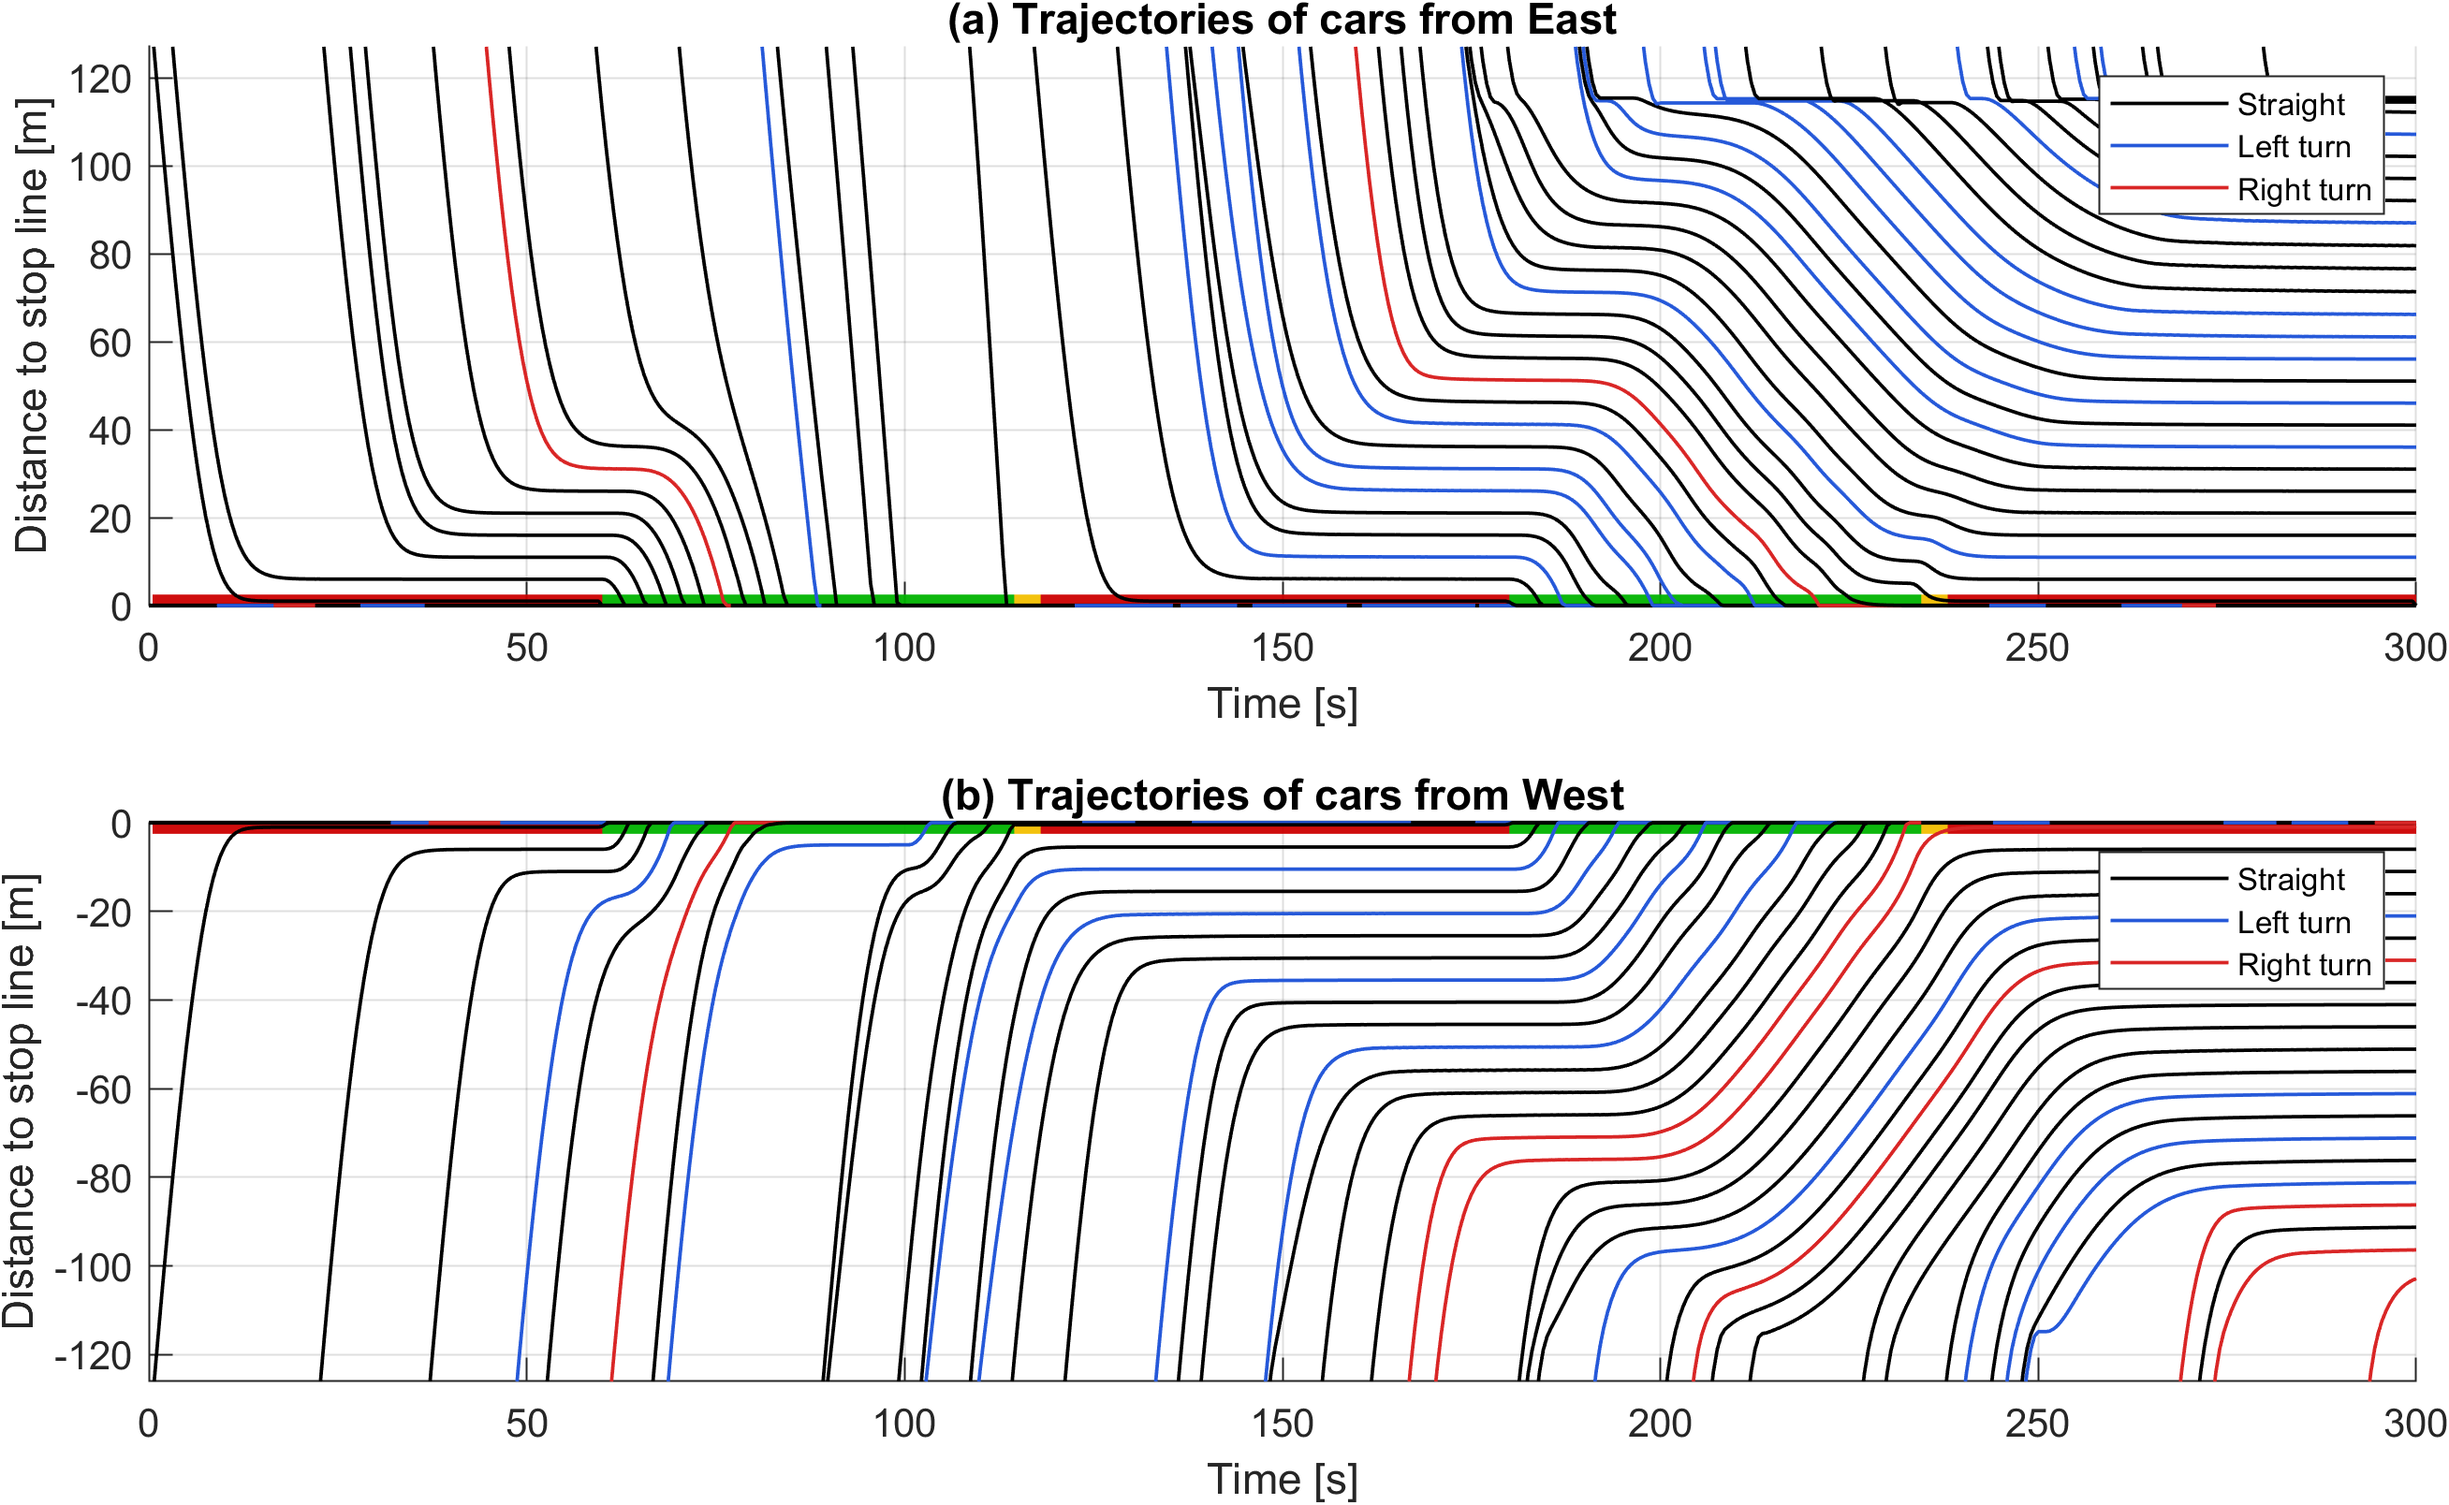
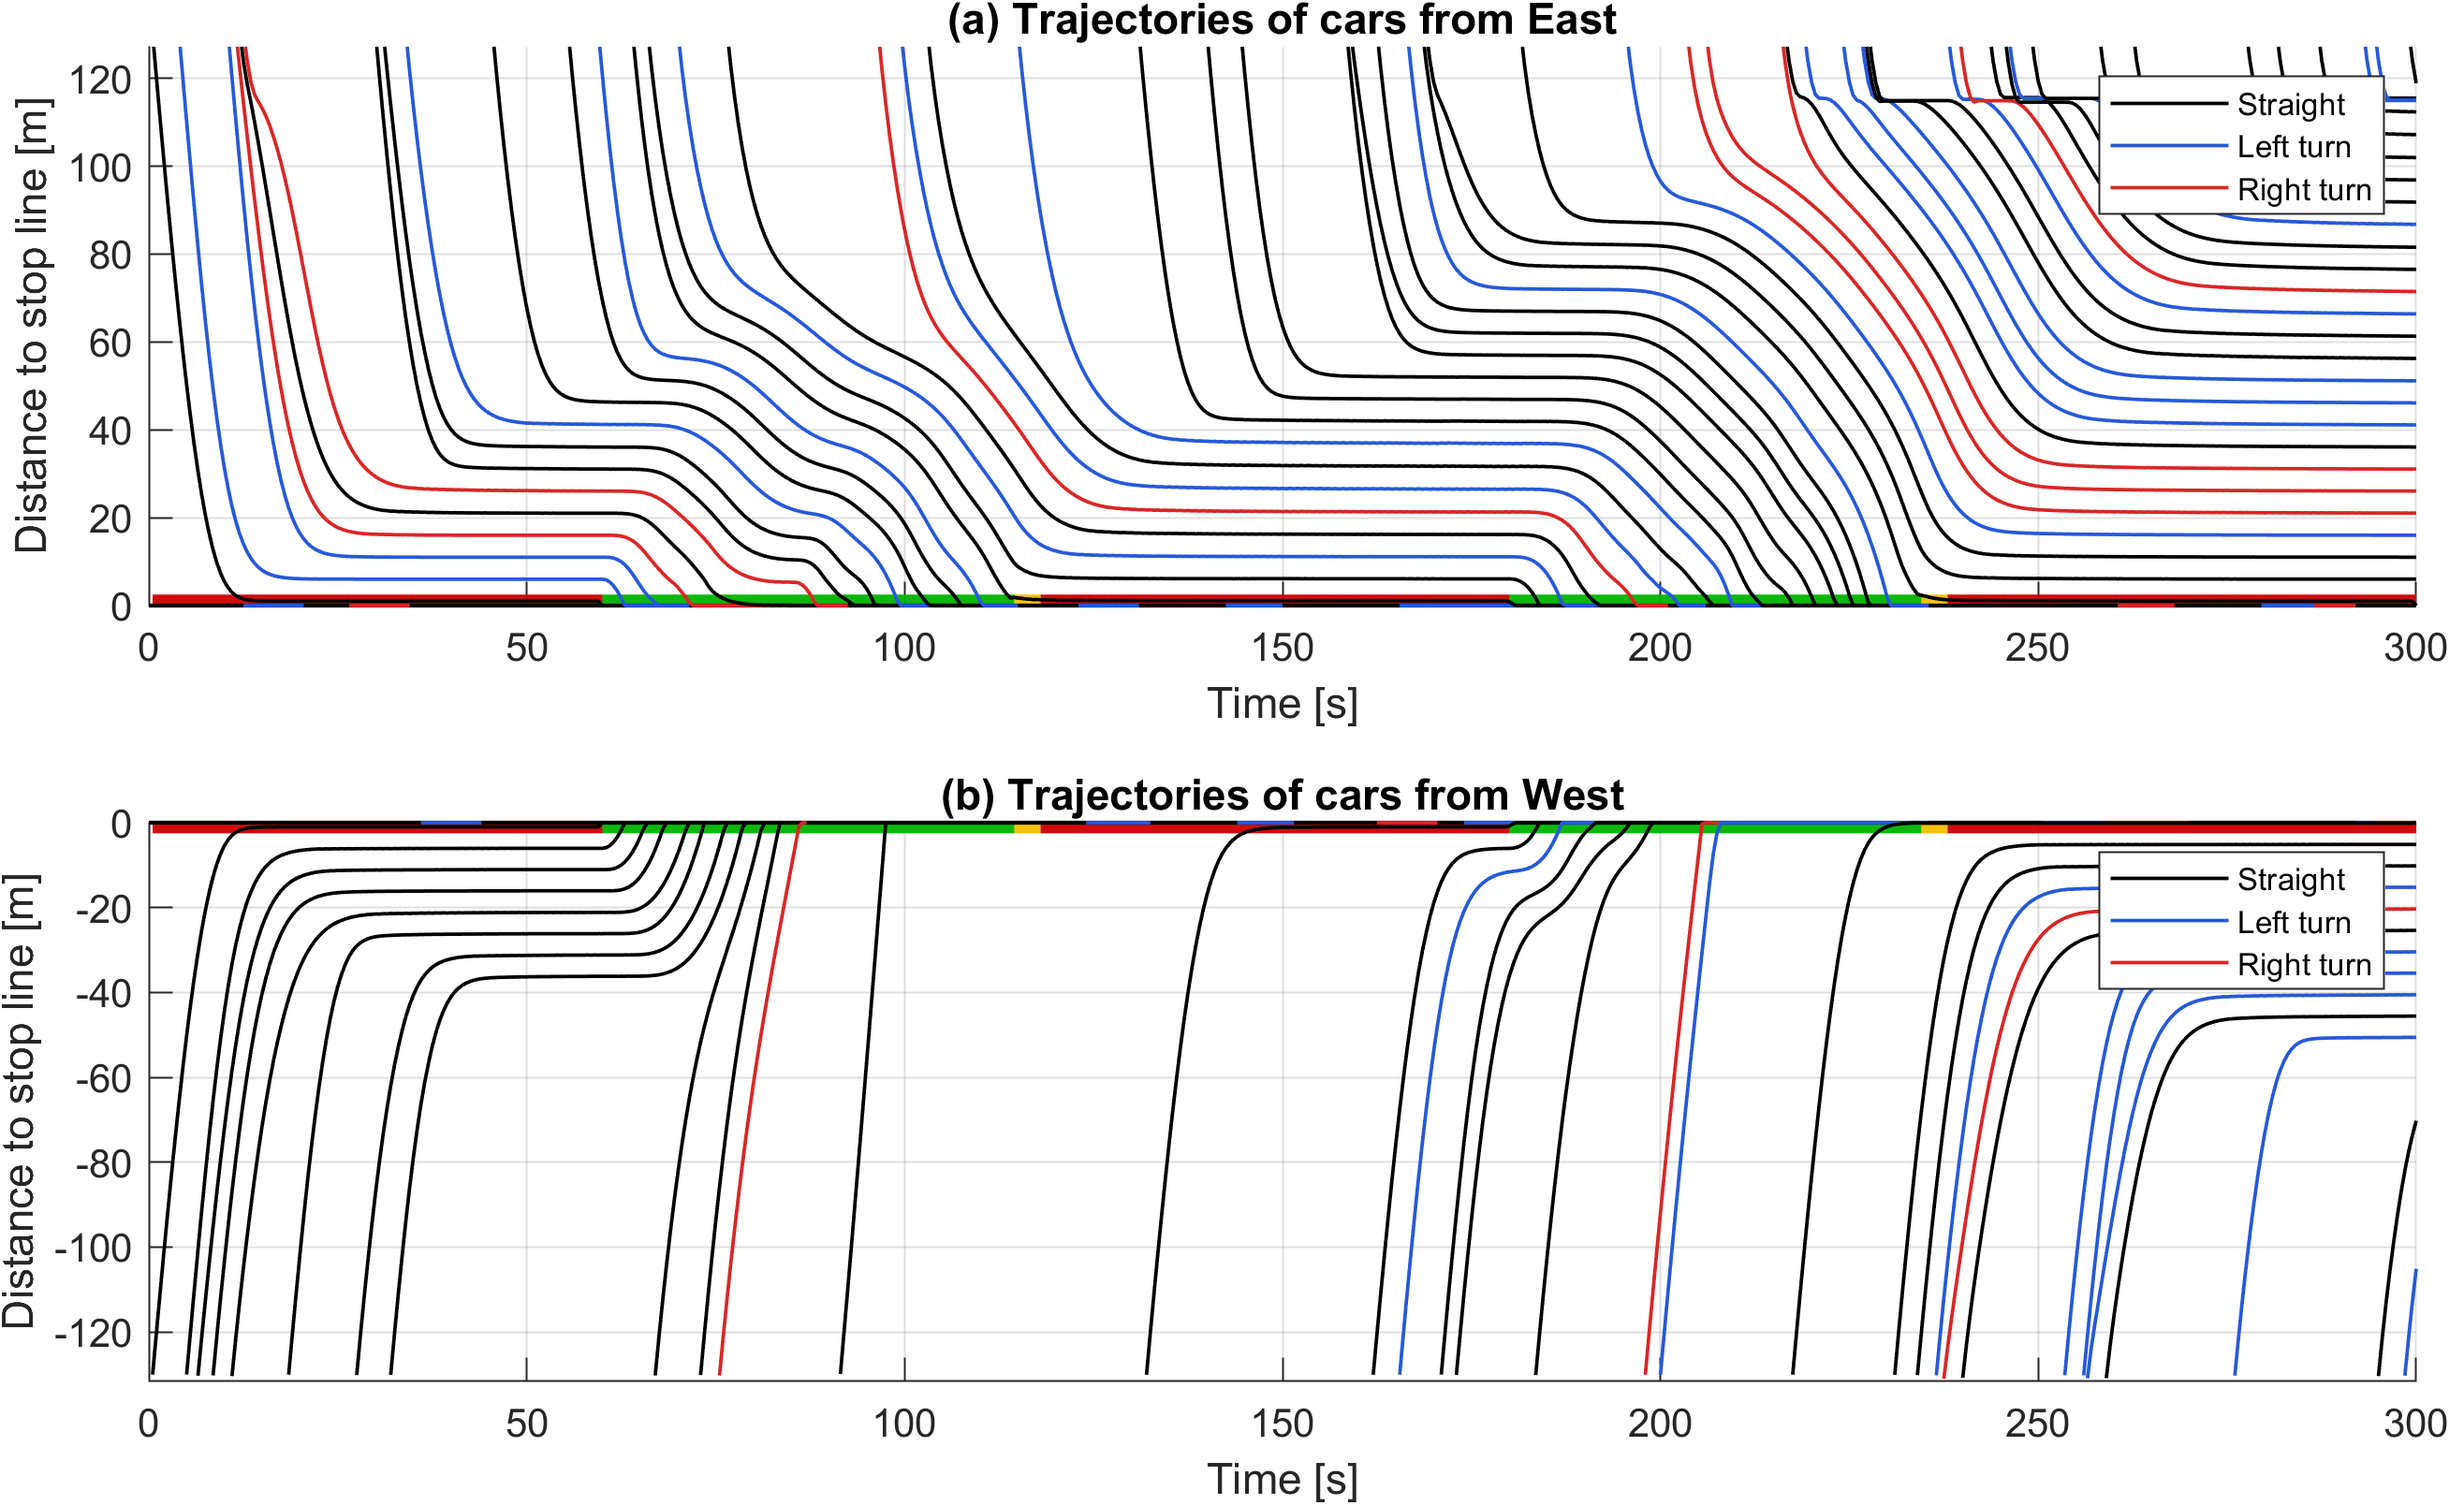
output

diff --git a/main/main_human_driving.m b/main/main_human_driving.m
@@ -987,7 +987,7 @@ end
 plot_EW_trajectories(LightLog, CarLogE, CarLogW, stop_line, 'C:/Users/monea/OneDrive/Documents/MATLAB/Traffic_Intersection/output/EW_human.png');
 plot_NS_trajectories(LightLog, CarLogS, CarLogN, stop_line, 'C:/Users/monea/OneDrive/Documents/MATLAB/Traffic_Intersection/output/NS_human.png');
 
-%plot_EW_accelerations(LightLog, CarLogS, CarLogN, stop_line, 'C:/Users/monea/OneDrive/Documents/MATLAB/Traffic_Intersection/output/EW_human_ac.png');
+plot_EW_accelerations(LightLog, CarLogS, CarLogN, stop_line, 'C:/Users/monea/OneDrive/Documents/MATLAB/Traffic_Intersection/output/EW_human_ac.png');
 
 
 %% === Helper Functions ===

diff --git a/main/main_v2v_idm_rsu.m b/main/main_v2v_idm_rsu.m
@@ -89,8 +89,8 @@ load(sched_path, 'sched');
 fprintf('Loaded traffic schedule (%d timesteps, dt=%.1fs)\n', sched.KKmax, sched.dt);
 
 % Activate Each Lane
-CARN = false;
-CARS = false;
+CARN = true;
+CARS = true;
 CARE = true;
 CARW = true;
 

diff --git a/main/main_v2v_mpc_rsu.m b/main/main_v2v_mpc_rsu.m
@@ -87,8 +87,8 @@ load(sched_path, 'sched');
 fprintf('Loaded traffic schedule (%d timesteps, dt=%.1fs)\n', sched.KKmax, sched.dt);
 
 % Activate Each Lane
-CARN = false;
-CARS = false;
+CARN = true;
+CARS = true;
 CARE = true;
 CARW = true;
 
